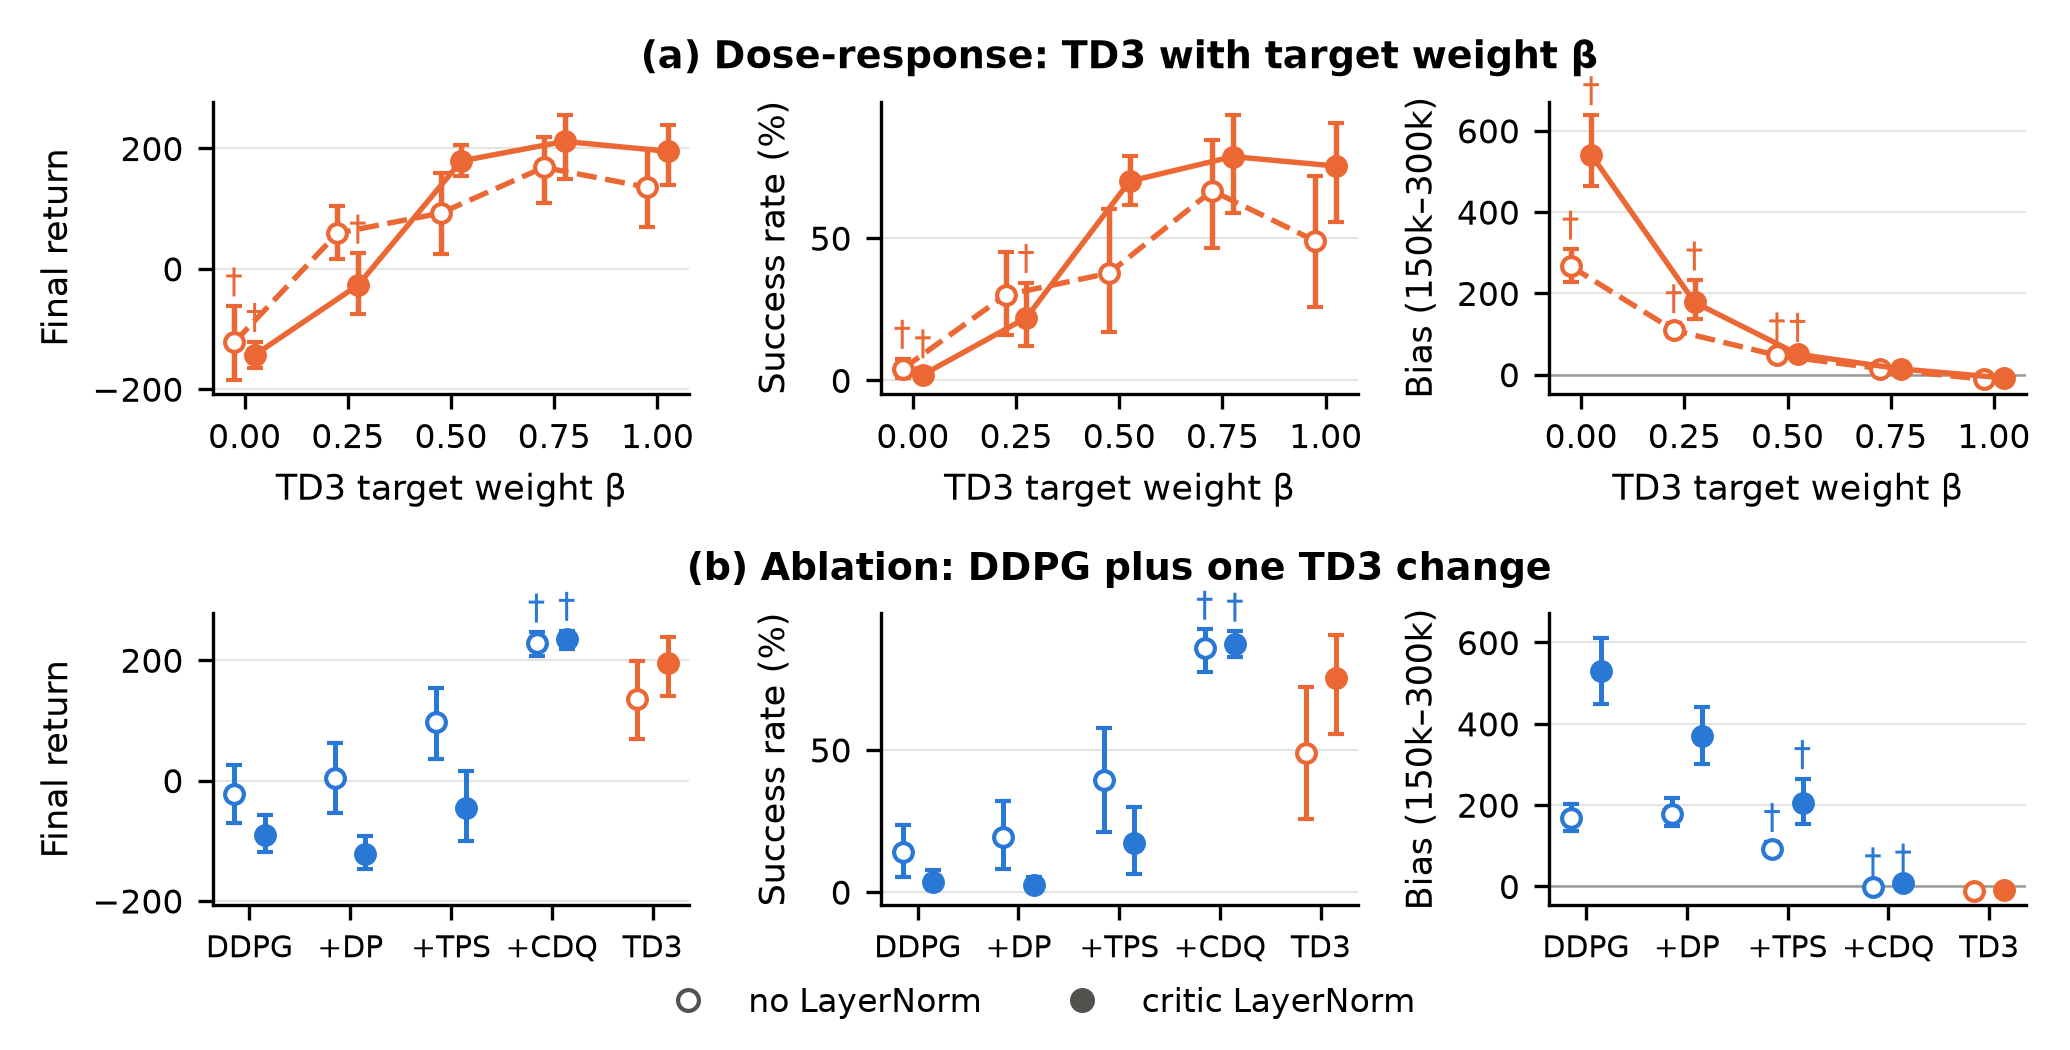
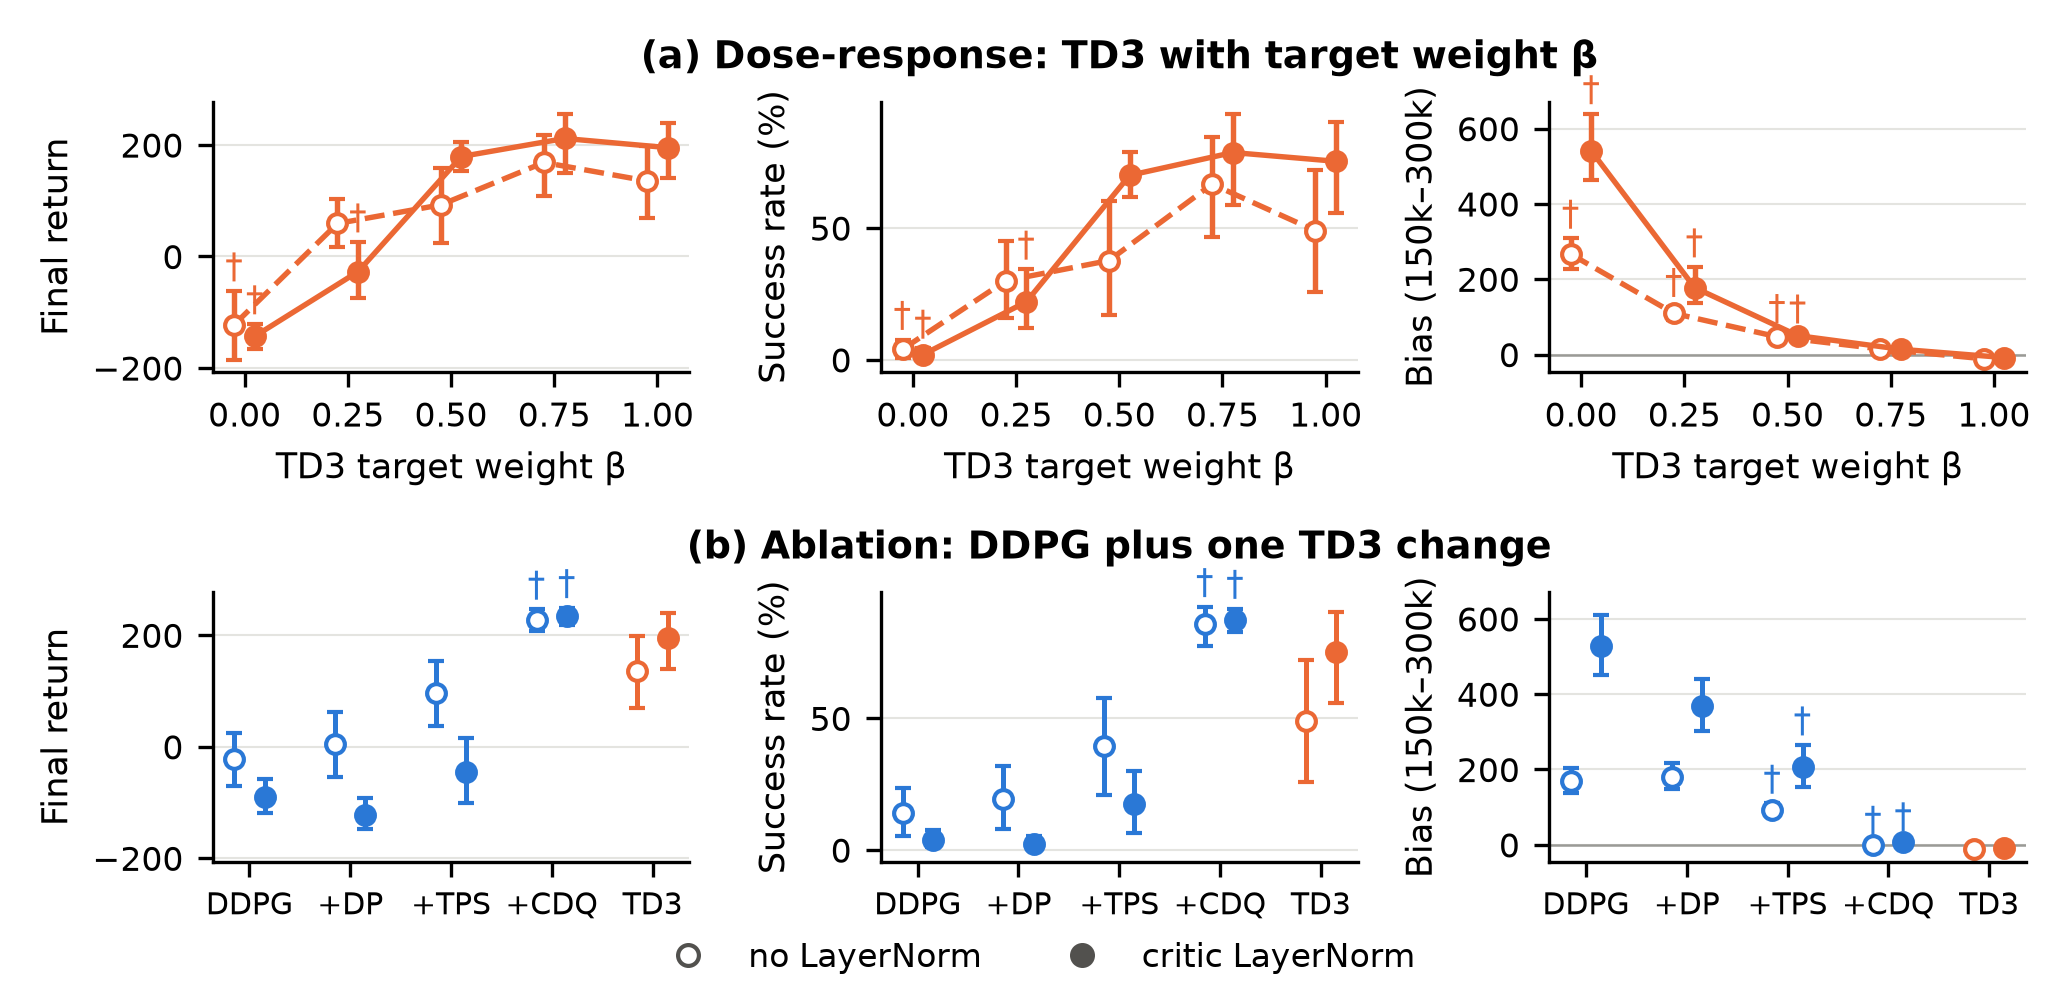
Update the figures to their final size and drop two references no longer cited

diff --git a/analyze.py b/analyze.py
@@ -171,7 +171,7 @@ def diff_heading(summ, a, b, k):
 
 def plot_curves(groups, summ, cols, out):
     rows = [("return_mean", "Evaluation return", 0, 0), ("bias", "Bias  Q₁ − MC return", WARMUP, 1)]
-    fig, axes = plt.subplots(2, 2, figsize=(PAGE_W, 3.9), sharex=True, sharey="row", squeeze=False)
+    fig, axes = plt.subplots(2, 2, figsize=(PAGE_W, 3.7), sharex=True, sharey="row", squeeze=False)
     for i, (key, ylabel, min_step, k) in enumerate(rows):
         for j, ln in enumerate((0, 1)):
             ax = axes[i, j]

diff --git a/analyze_extra.py b/analyze_extra.py
@@ -249,7 +249,7 @@ def dagger(ax, x, top, color):
 
 def plot_controlled(summ, sig, out):
     """Report figure: (a) dose-response on beta, (b) ablation; one column per metric, y shared per column."""
-    fig, axes = plt.subplots(2, 3, figsize=(PAGE_W, 3.5), sharey="col", squeeze=False)
+    fig, axes = plt.subplots(2, 3, figsize=(PAGE_W, 3.35), sharey="col", squeeze=False)
     names = (DDPG, *ABLATIONS, TD3)
     for j, (k, metric, scale) in enumerate(METRICS):
         ax = axes[0, j]

diff --git a/REFERENCES.md b/REFERENCES.md
@@ -5,10 +5,8 @@ The works cited in the report (author–year citations in the text), in alphabet
 - Agarwal, R., Schwarzer, M., Castro, P. S., Courville, A., Bellemare, M. G. (2021). Deep reinforcement learning at the edge of the statistical precipice. *Advances in Neural Information Processing Systems (NeurIPS)*.
 - Ba, J. L., Kiros, J. R., Hinton, G. E. (2016). Layer normalization. *arXiv:1607.06450*.
 - Ball, P. J., Smith, L., Kostrikov, I., Levine, S. (2023). Efficient online reinforcement learning with offline data. *International Conference on Machine Learning (ICML)*.
-- Ciosek, K., Vuong, Q., Loftin, R., Hofmann, K. (2019). Better exploration with optimistic actor-critic. *Advances in Neural Information Processing Systems (NeurIPS)*.
 - Fujimoto, S., van Hoof, H., Meger, D. (2018). Addressing function approximation error in actor-critic methods. *International Conference on Machine Learning (ICML)*.
 - Lillicrap, T. P., Hunt, J. J., Pritzel, A., Heess, N., Erez, T., Tassa, Y., Silver, D., Wierstra, D. (2016). Continuous control with deep reinforcement learning. *International Conference on Learning Representations (ICLR)*.
-- Moskovitz, T., Parker-Holder, J., Pacchiano, A., Arbel, M., Jordan, M. I. (2021). Tactical optimism and pessimism for deep reinforcement learning. *Advances in Neural Information Processing Systems (NeurIPS)*.
 - Nauman, M., Bortkiewicz, M., Miłoś, P., Trzciński, T., Ostaszewski, M., Cygan, M. (2024). Overestimation, overfitting, and plasticity in actor-critic: the bitter lesson of reinforcement learning. *International Conference on Machine Learning (ICML)*.
 - Raffin, A., Hill, A., Gleave, A., Kanervisto, A., Ernestus, M., Dormann, N. (2021). Stable-Baselines3: reliable reinforcement learning implementations. *Journal of Machine Learning Research*, 22(268):1–8.
 - Thrun, S., Schwartz, A. (1993). Issues in using function approximation for reinforcement learning. *Proceedings of the Fourth Connectionist Models Summer School*.
@@ -71,20 +69,6 @@ The works cited in the report (author–year citations in the text), in alphabet
   author = {Towers, Mark and Kwiatkowski, Ariel and Terry, Jordan and others},
   year   = {2024},
   note   = {arXiv:2407.17032}
-}
-
-@inproceedings{ciosek2019oac,
-  title     = {Better Exploration with Optimistic Actor-Critic},
-  author    = {Ciosek, Kamil and Vuong, Quan and Loftin, Robert and Hofmann, Katja},
-  booktitle = {Advances in Neural Information Processing Systems (NeurIPS)},
-  year      = {2019}
-}
-
-@inproceedings{moskovitz2021top,
-  title     = {Tactical Optimism and Pessimism for Deep Reinforcement Learning},
-  author    = {Moskovitz, Ted and Parker-Holder, Jack and Pacchiano, Aldo and Arbel, Michael and Jordan, Michael I.},
-  booktitle = {Advances in Neural Information Processing Systems (NeurIPS)},
-  year      = {2021}
 }
 
 @article{raffin2021sb3,
